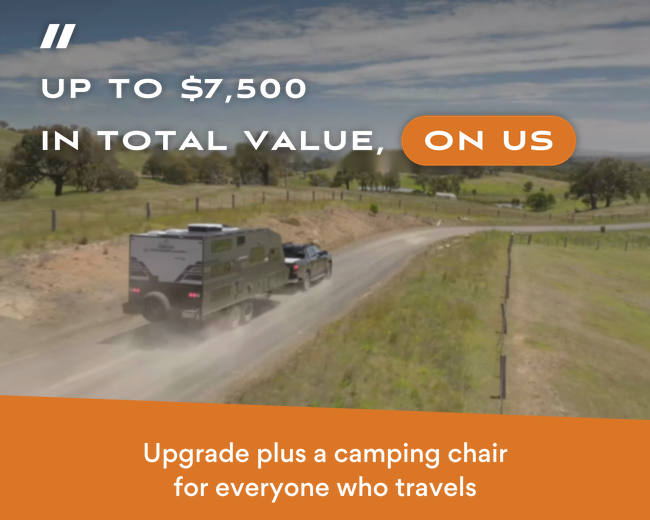
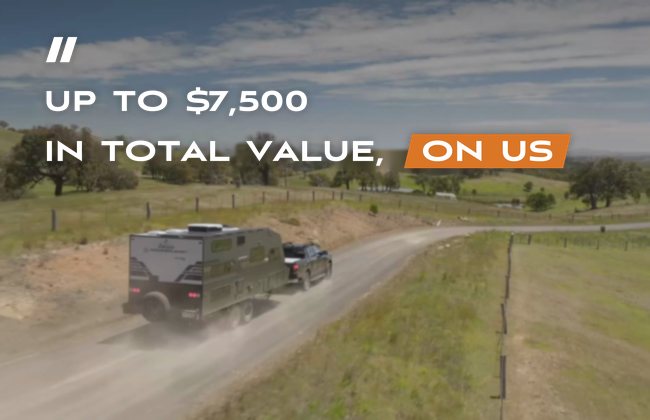
Offer email: header rebuilt to the design project's approved offer hero, Aviano band, Build Your Caravan section removed, final copy (Piyush 23 Nov 2026)

diff --git a/offer-email/offer-email.html b/offer-email/offer-email.html
@@ -5,7 +5,7 @@
 <meta name="viewport" content="width=device-width, initial-scale=1">
 <meta name="color-scheme" content="light only">
 <meta name="supported-color-schemes" content="light only">
-<title>Up to $6,000 in upgrades, on us</title>
+<title>Up to $7,500 in total value, on us</title>
 <!--[if mso]><xml><o:OfficeDocumentSettings><o:AllowPNG/><o:PixelsPerInch>96</o:PixelsPerInch></o:OfficeDocumentSettings></xml><![endif]-->
 <style type="text/css">
 a[x-apple-data-detectors]{color:inherit!important;text-decoration:none!important;font-size:inherit!important;font-family:inherit!important;font-weight:inherit!important;line-height:inherit!important}
@@ -33,33 +33,32 @@ img{border:0;display:block;outline:none;text-decoration:none;-ms-interpolation-m
 
 <body style="margin:0;padding:0;background:#FAFAFA;">
 <!-- DRAFT COPY: replace from COPY.md -->
-<div style="display:none;font-size:1px;line-height:1px;max-height:0;max-width:0;opacity:0;overflow:hidden;mso-hide:all;font-family:arial,'helvetica neue',helvetica,sans-serif;color:#FAFAFA;">Up to $7,500 in total value on a new Amaroo or Solara, ordered by 3&zwnj;0&nbsp;Nov&zwnj;ember. 5 build slots left. T&amp;Cs&nbsp;apply.&zwnj;&nbsp;&zwnj;&nbsp;&zwnj;&nbsp;&zwnj;&nbsp;&zwnj;&nbsp;&zwnj;&nbsp;&zwnj;&nbsp;&zwnj;&nbsp;&zwnj;&nbsp;&zwnj;&nbsp;&zwnj;&nbsp;&zwnj;&nbsp;&zwnj;&nbsp;&zwnj;&nbsp;&zwnj;&nbsp;&zwnj;&nbsp;&zwnj;&nbsp;&zwnj;&nbsp;&zwnj;&nbsp;&zwnj;&nbsp;&zwnj;&nbsp;&zwnj;&nbsp;&zwnj;&nbsp;&zwnj;&nbsp;&zwnj;&nbsp;&zwnj;&nbsp;&zwnj;&nbsp;&zwnj;&nbsp;&zwnj;&nbsp;&zwnj;&nbsp;&zwnj;&nbsp;&zwnj;&nbsp;&zwnj;&nbsp;&zwnj;&nbsp;&zwnj;&nbsp;&zwnj;&nbsp;&zwnj;&nbsp;&zwnj;&nbsp;&zwnj;&nbsp;&zwnj;&nbsp;&zwnj;&nbsp;&zwnj;&nbsp;&zwnj;&nbsp;&zwnj;&nbsp;&zwnj;&nbsp;&zwnj;&nbsp;&zwnj;&nbsp;&zwnj;&nbsp;&zwnj;&nbsp;&zwnj;&nbsp;&zwnj;&nbsp;&zwnj;&nbsp;&zwnj;&nbsp;&zwnj;&nbsp;&zwnj;&nbsp;&zwnj;&nbsp;&zwnj;&nbsp;&zwnj;&nbsp;&zwnj;&nbsp;&zwnj;&nbsp;&zwnj;&nbsp;&zwnj;&nbsp;&zwnj;&nbsp;&zwnj;&nbsp;&zwnj;&nbsp;&zwnj;&nbsp;&zwnj;&nbsp;&zwnj;&nbsp;&zwnj;&nbsp;&zwnj;&nbsp;&zwnj;&nbsp;&zwnj;&nbsp;&zwnj;&nbsp;&zwnj;&nbsp;&zwnj;&nbsp;&zwnj;&nbsp;&zwnj;&nbsp;&zwnj;&nbsp;&zwnj;&nbsp;&zwnj;&nbsp;&zwnj;&nbsp;&zwnj;&nbsp;&zwnj;&nbsp;&zwnj;&nbsp;&zwnj;&nbsp;&zwnj;&nbsp;&zwnj;&nbsp;&zwnj;&nbsp;&zwnj;&nbsp;&zwnj;&nbsp;</div>
+<div style="display:none;font-size:1px;line-height:1px;max-height:0;max-width:0;opacity:0;overflow:hidden;mso-hide:all;font-family:arial,'helvetica neue',helvetica,sans-serif;color:#FAFAFA;">Up to $7,500 in total value, on us: a free upgrade and a camping chair for everyone who travels. 5 build slots left, orders by 3&zwnj;0&nbsp;Nov&zwnj;ember.&zwnj;&nbsp;&zwnj;&nbsp;&zwnj;&nbsp;&zwnj;&nbsp;&zwnj;&nbsp;&zwnj;&nbsp;&zwnj;&nbsp;&zwnj;&nbsp;&zwnj;&nbsp;&zwnj;&nbsp;&zwnj;&nbsp;&zwnj;&nbsp;&zwnj;&nbsp;&zwnj;&nbsp;&zwnj;&nbsp;&zwnj;&nbsp;&zwnj;&nbsp;&zwnj;&nbsp;&zwnj;&nbsp;&zwnj;&nbsp;&zwnj;&nbsp;&zwnj;&nbsp;&zwnj;&nbsp;&zwnj;&nbsp;&zwnj;&nbsp;&zwnj;&nbsp;&zwnj;&nbsp;&zwnj;&nbsp;&zwnj;&nbsp;&zwnj;&nbsp;&zwnj;&nbsp;&zwnj;&nbsp;&zwnj;&nbsp;&zwnj;&nbsp;&zwnj;&nbsp;&zwnj;&nbsp;&zwnj;&nbsp;&zwnj;&nbsp;&zwnj;&nbsp;&zwnj;&nbsp;&zwnj;&nbsp;&zwnj;&nbsp;&zwnj;&nbsp;&zwnj;&nbsp;&zwnj;&nbsp;&zwnj;&nbsp;&zwnj;&nbsp;&zwnj;&nbsp;&zwnj;&nbsp;&zwnj;&nbsp;&zwnj;&nbsp;&zwnj;&nbsp;&zwnj;&nbsp;&zwnj;&nbsp;&zwnj;&nbsp;&zwnj;&nbsp;&zwnj;&nbsp;&zwnj;&nbsp;&zwnj;&nbsp;&zwnj;&nbsp;&zwnj;&nbsp;&zwnj;&nbsp;&zwnj;&nbsp;&zwnj;&nbsp;&zwnj;&nbsp;&zwnj;&nbsp;&zwnj;&nbsp;&zwnj;&nbsp;&zwnj;&nbsp;&zwnj;&nbsp;&zwnj;&nbsp;&zwnj;&nbsp;&zwnj;&nbsp;&zwnj;&nbsp;&zwnj;&nbsp;&zwnj;&nbsp;&zwnj;&nbsp;&zwnj;&nbsp;&zwnj;&nbsp;&zwnj;&nbsp;&zwnj;&nbsp;&zwnj;&nbsp;&zwnj;&nbsp;&zwnj;&nbsp;&zwnj;&nbsp;&zwnj;&nbsp;&zwnj;&nbsp;&zwnj;&nbsp;&zwnj;&nbsp;&zwnj;&nbsp;</div>
 <table width="100%" cellpadding="0" cellspacing="0" border="0" role="presentation" bgcolor="#FAFAFA" style="border-collapse:collapse;background:#FAFAFA;"><tbody><tr><td class="outer" align="center" style="padding:0 8px 0 8px;">
 <table class="wrap" width="650" cellpadding="0" cellspacing="0" border="0" role="presentation" bgcolor="#ffffff" style="width:650px;border-collapse:collapse;background:#ffffff;">
 
   <tr><td bgcolor="#ffffff" style="font-size:0;line-height:0;background:#ffffff;"><a href="https://wonderlandrv.com.au/" target="_blank"><img class="stackimg" src="img/header-logo-white.png" alt="Wonderland RV" width="650" height="90" style="width:650px;height:90px;display:block;font-family:arial,'helvetica neue',helvetica,sans-serif;font-size:16px;line-height:24px;color:#333333;"></a></td></tr>
 
 <!-- DRAFT COPY: replace from COPY.md -->
-  <tr><td style="font-size:0;line-height:0;"><a href="https://wonderlandrv.com.au/range/?utm_source=ActiveCampaign&amp;utm_medium=email&amp;utm_campaign=early-summer-upgrades&amp;utm_content=promo-final-hero" target="_blank"><img class="stackimg" src="hero-upto7500.gif" alt="Up to $7,500 in total value, on us. Upgrade plus a camping chair for everyone who travels. A Wonderland RV Amaroo and Solara on the road" width="650" height="520" style="width:650px;height:520px;display:block;font-family:arial,'helvetica neue',helvetica,sans-serif;font-size:16px;line-height:24px;color:#333333;"></a></td></tr>
+  <tr><td style="font-size:0;line-height:0;"><a href="https://wonderlandrv.com.au/range/?utm_source=ActiveCampaign&amp;utm_medium=email&amp;utm_campaign=early-summer-upgrades&amp;utm_content=promo-final-hero" target="_blank"><img class="stackimg" src="hero-upto7500.gif" alt="Up to $7,500 in total value, on us. A Wonderland RV Amaroo and Solara on the road" width="650" height="420" style="width:650px;height:420px;display:block;font-family:arial,'helvetica neue',helvetica,sans-serif;font-size:16px;line-height:24px;color:#333333;"></a></td></tr>
+  <tr><td bgcolor="#DB7627" style="background:#DB7627;font-size:0;line-height:0;padding:0;"><img class="stackimg" src="img/band-5-slots.png" alt="5 build slots left, offer ends 30 November. Amaroo and Solara, early summer offer" width="650" height="92" style="width:650px;height:92px;display:block;font-family:arial,'helvetica neue',helvetica,sans-serif;font-size:15px;line-height:22px;font-weight:bold;color:#ffffff;text-align:center;"></td></tr>
 
 <!-- DRAFT COPY: replace from COPY.md -->
-  <tr><td align="center" bgcolor="#DB7627" style="background:#DB7627;padding:14px 30px 6px 30px;"><table cellpadding="0" cellspacing="0" border="0" role="presentation" bgcolor="#ffffff" style="border-collapse:collapse;background:#ffffff;"><tbody><tr><td align="center" bgcolor="#ffffff" style="padding:12px 26px;background:#ffffff;font-family:arial,'helvetica neue',helvetica,sans-serif;font-size:14px;line-height:18px;mso-line-height-rule:exactly;color:#202223;">AMAROO AND SOLARA, EARLY&nbsp;SUMMER&nbsp;OFFER</td></tr></tbody></table></td></tr>
-  <tr><td align="center" bgcolor="#DB7627" style="background:#DB7627;padding:14px 30px 20px 30px;font-family:arial,'helvetica neue',helvetica,sans-serif;"><div style="font-size:24px;line-height:30px;mso-line-height-rule:exactly;font-weight:bold;color:#ffffff;letter-spacing:0.5px;">5 BUILD SLOTS LEFT</div><div style="font-size:24px;line-height:30px;mso-line-height-rule:exactly;font-weight:bold;color:#ffffff;letter-spacing:0.5px;">OFFER ENDS <span style="white-space:nowrap;">3&zwnj;0 NOV&zwnj;EMBER</span></div></td></tr>
 
   <tr><td bgcolor="#ffffff" style="font-size:0;line-height:0;background:#ffffff;"><img class="stackimg" src="img/wedge-orange-white.png" alt="" width="650" height="63" style="width:650px;height:63px;display:block;"></td></tr>
-  <tr><td class="pad" align="center" bgcolor="#ffffff" style="background:#ffffff;padding:26px 40px 0 40px;font-family:arial,'helvetica neue',helvetica,sans-serif;"><div class="sechead" style="font-size:26px;line-height:31px;mso-line-height-rule:exactly;font-weight:bold;color:#DB7627;">OUR EARLY SUMMER OFFER IS&nbsp;ON</div></td></tr>
-  <tr><td class="pad" align="center" bgcolor="#ffffff" style="background:#ffffff;padding:16px 40px 0px 40px;font-family:arial,'helvetica neue',helvetica,sans-serif;font-size:16px;line-height:24px;mso-line-height-rule:exactly;color:#333333;"><table width="520" cellpadding="0" cellspacing="0" border="0" role="presentation" align="center" class="fluid" style="width:520px;border-collapse:collapse;"><tbody><tr><td align="center" style="font-family:arial,'helvetica neue',helvetica,sans-serif;font-size:16px;line-height:24px;mso-line-height-rule:exactly;color:#333333;">If the Amaroo or the Solara has been on your shortlist, now&rsquo;s the time to make it yours. Spring into a new Wonderland RV Amaroo or Solara during the month of November and SAVE UP TO&nbsp;$6,000*.</td></tr></tbody></table></td></tr>
-  <tr><td class="pad" align="center" bgcolor="#ffffff" style="background:#ffffff;padding:14px 40px 0px 40px;font-family:arial,'helvetica neue',helvetica,sans-serif;font-size:16px;line-height:24px;mso-line-height-rule:exactly;color:#333333;"><table width="520" cellpadding="0" cellspacing="0" border="0" role="presentation" align="center" class="fluid" style="width:520px;border-collapse:collapse;"><tbody><tr><td align="center" style="font-family:arial,'helvetica neue',helvetica,sans-serif;font-size:16px;line-height:24px;mso-line-height-rule:exactly;color:#333333;">You&rsquo;ll also get a Wonderland RV camping chair for everyone who travels: 2 for a couples van, 5 for a three-bunk and 6 for&nbsp;a&nbsp;four-bunk.</td></tr></tbody></table></td></tr>
+  <tr><td class="pad" align="center" bgcolor="#ffffff" style="background:#ffffff;padding:26px 40px 0 40px;font-family:arial,'helvetica neue',helvetica,sans-serif;"><div class="sechead" style="font-size:26px;line-height:31px;mso-line-height-rule:exactly;font-weight:bold;color:#DB7627;">OUR EARLY SUMMER OFFER IS STILL&nbsp;ON</div></td></tr>
+  <tr><td class="pad" align="center" bgcolor="#ffffff" style="background:#ffffff;padding:16px 40px 0px 40px;font-family:arial,'helvetica neue',helvetica,sans-serif;font-size:16px;line-height:24px;mso-line-height-rule:exactly;color:#333333;"><table width="520" cellpadding="0" cellspacing="0" border="0" role="presentation" align="center" class="fluid" style="width:520px;border-collapse:collapse;"><tbody><tr><td align="center" style="font-family:arial,'helvetica neue',helvetica,sans-serif;font-size:16px;line-height:24px;mso-line-height-rule:exactly;color:#333333;">If the Amaroo or the Solara has been on your shortlist, there&rsquo;s still time to make it yours. Order a new Wonderland RV Amaroo or Solara by 30&nbsp;November and we&rsquo;ll fit an upgrade valued at up to $6,000*, plus give you a Wonderland RV camping chair for everyone who&nbsp;travels.</td></tr></tbody></table></td></tr>
+  <tr><td class="pad" align="center" bgcolor="#ffffff" style="background:#ffffff;padding:14px 40px 0px 40px;font-family:arial,'helvetica neue',helvetica,sans-serif;font-size:16px;line-height:24px;mso-line-height-rule:exactly;color:#333333;"><table width="520" cellpadding="0" cellspacing="0" border="0" role="presentation" align="center" class="fluid" style="width:520px;border-collapse:collapse;"><tbody><tr><td align="center" style="font-family:arial,'helvetica neue',helvetica,sans-serif;font-size:16px;line-height:24px;mso-line-height-rule:exactly;color:#333333;">That&rsquo;s up to $7,500 in total value, on us, and there are 5 build slots left across both&nbsp;models.</td></tr></tbody></table></td></tr>
   <tr><td bgcolor="#ffffff" style="background:#ffffff;padding:26px 0 0 0;font-size:0;line-height:0;"><img class="stackimg" src="img/chairs-offer.gif" alt="Free Wonderland RV camping chairs for everyone who travels, with a new Amaroo or Solara" width="650" height="325" style="width:650px;height:325px;display:block;font-family:arial,'helvetica neue',helvetica,sans-serif;font-size:16px;line-height:24px;color:#333333;"></td></tr>
 <!-- DRAFT COPY: replace from COPY.md -->
-  <tr><td class="pad" align="center" bgcolor="#ffffff" style="background:#ffffff;padding:18px 40px 0px 40px;font-family:arial,'helvetica neue',helvetica,sans-serif;font-size:16px;line-height:24px;mso-line-height-rule:exactly;color:#333333;"><table width="520" cellpadding="0" cellspacing="0" border="0" role="presentation" align="center" class="fluid" style="width:520px;border-collapse:collapse;"><tbody><tr><td align="center" style="font-family:arial,'helvetica neue',helvetica,sans-serif;font-size:16px;line-height:24px;mso-line-height-rule:exactly;color:#333333;">Camping chairs valued at $250 each: 2 for a couples van, 5 for a three&#8209;bunk, 6 for a four&#8209;bunk. For a family of six, that&rsquo;s up to $7,500 in total value with&nbsp;the&nbsp;upgrade.</td></tr></tbody></table></td></tr>
+  <tr><td class="pad" align="center" bgcolor="#ffffff" style="background:#ffffff;padding:18px 40px 0px 40px;font-family:arial,'helvetica neue',helvetica,sans-serif;font-size:16px;line-height:24px;mso-line-height-rule:exactly;color:#333333;"><table width="520" cellpadding="0" cellspacing="0" border="0" role="presentation" align="center" class="fluid" style="width:520px;border-collapse:collapse;"><tbody><tr><td align="center" style="font-family:arial,'helvetica neue',helvetica,sans-serif;font-size:16px;line-height:24px;mso-line-height-rule:exactly;color:#333333;">Camping chairs are valued at $250 each. With the upgrade, that&rsquo;s $6,500 in total value for a couples van with 2 chairs, $7,250 for a three&#8209;bunk with 5 and up to $7,500 for a four&#8209;bunk with&nbsp;6.</td></tr></tbody></table></td></tr>
   <tr><td class="pad" align="center" bgcolor="#ffffff" style="background:#ffffff;padding:34px 40px 0 40px;font-family:arial,'helvetica neue',helvetica,sans-serif;"><div class="sechead" style="font-size:26px;line-height:31px;mso-line-height-rule:exactly;font-weight:bold;color:#DB7627;">FEATURED UPGRADES</div></td></tr>
   <tr><td class="pad" bgcolor="#ffffff" style="background:#ffffff;padding:18px 40px 0 40px;"><table width="570" cellpadding="0" cellspacing="0" border="0" role="presentation" class="fluid" style="width:570px;border-collapse:collapse;"><tbody><tr><td height="1" bgcolor="#E5E5E5" style="height:1px;font-size:0;line-height:0;background:#E5E5E5;">&nbsp;</td></tr><tr><td class="cpad" bgcolor="#ffffff" style="background:#ffffff;padding:18px 10px 0 10px;"><table width="550" cellpadding="0" cellspacing="0" border="0" role="presentation" class="fluid" style="width:550px;border-collapse:collapse;"><tbody><tr><td width="110" valign="top" style="width:110px;padding:0 0 10px 0;font-family:arial,'helvetica neue',helvetica,sans-serif;font-size:16px;line-height:24px;mso-line-height-rule:exactly;font-weight:bold;color:#000000;border-bottom:1px solid #E5E5E5;">Amaroo:</td><td valign="top" style="padding:0 0 10px 0;font-family:arial,'helvetica neue',helvetica,sans-serif;font-size:16px;line-height:24px;mso-line-height-rule:exactly;color:#333333;border-bottom:1px solid #E5E5E5;">Free airbag suspension upgrade, valued at up to&nbsp;$6,000*</td></tr><tr><td width="110" valign="top" style="width:110px;padding:0 0 10px 0;font-family:arial,'helvetica neue',helvetica,sans-serif;font-size:16px;line-height:24px;mso-line-height-rule:exactly;font-weight:bold;color:#000000;border-bottom:1px solid #E5E5E5;">Solara:</td><td valign="top" style="padding:0 0 10px 0;font-family:arial,'helvetica neue',helvetica,sans-serif;font-size:16px;line-height:24px;mso-line-height-rule:exactly;color:#333333;border-bottom:1px solid #E5E5E5;">Your choice of disc brakes or the BCS system, valued at up to&nbsp;$6,000*</td></tr><!-- DRAFT COPY: replace from COPY.md --><tr><td width="110" valign="top" style="width:110px;padding:0 0 10px 0;font-family:arial,'helvetica neue',helvetica,sans-serif;font-size:16px;line-height:24px;mso-line-height-rule:exactly;font-weight:bold;color:#000000;border-bottom:1px solid #E5E5E5;">Build slots:</td><td valign="top" style="padding:0 0 10px 0;font-family:arial,'helvetica neue',helvetica,sans-serif;font-size:16px;line-height:24px;mso-line-height-rule:exactly;color:#333333;border-bottom:1px solid #E5E5E5;">5 remaining across&nbsp;both&nbsp;models</td></tr><tr><td width="110" valign="top" style="width:110px;padding:0 0 0 0;font-family:arial,'helvetica neue',helvetica,sans-serif;font-size:16px;line-height:24px;mso-line-height-rule:exactly;font-weight:bold;color:#000000;">Orders:</td><td valign="top" style="padding:0 0 0 0;font-family:arial,'helvetica neue',helvetica,sans-serif;font-size:16px;line-height:24px;mso-line-height-rule:exactly;color:#333333;">By 3&zwnj;0 Nov&zwnj;ember&nbsp;20&zwnj;26</td></tr></tbody></table></td></tr><tr><td height="1" bgcolor="#E5E5E5" style="height:1px;font-size:0;line-height:0;background:#E5E5E5;">&nbsp;</td></tr></tbody></table></td></tr>
   <tr><td class="pad" align="center" bgcolor="#ffffff" style="background:#ffffff;padding:22px 40px 0px 40px;font-size:0;line-height:0;"><a href="https://wonderlandrv.com.au/range/amaroo/?utm_source=ActiveCampaign&amp;utm_medium=email&amp;utm_campaign=early-summer-upgrades&amp;utm_content=promo-final-amaroo" target="_blank"><img src="img/btn-claim-the-amaroo-upgrade.png" alt="CLAIM THE AMAROO UPGRADE" width="350" height="52" style="width:350px;height:52px;display:block;margin:0 auto;font-family:arial,'helvetica neue',helvetica,sans-serif;font-size:13px;line-height:52px;font-weight:bold;letter-spacing:2px;color:#ffffff;text-align:center;background-color:#DB7627;"></a></td></tr>
   <tr><td class="pad" align="center" bgcolor="#ffffff" style="background:#ffffff;padding:12px 40px 0px 40px;font-size:0;line-height:0;"><a href="https://wonderlandrv.com.au/range/solara/?utm_source=ActiveCampaign&amp;utm_medium=email&amp;utm_campaign=early-summer-upgrades&amp;utm_content=promo-final-solara" target="_blank"><img src="img/btn-claim-the-solara-upgrade.png" alt="CLAIM THE SOLARA UPGRADE" width="350" height="52" style="width:350px;height:52px;display:block;margin:0 auto;font-family:arial,'helvetica neue',helvetica,sans-serif;font-size:13px;line-height:52px;font-weight:bold;letter-spacing:2px;color:#ffffff;text-align:center;background-color:#DB7627;"></a></td></tr>
   <tr><td class="pad" align="center" bgcolor="#ffffff" style="background:#ffffff;padding:18px 40px 0 40px;font-family:arial,'helvetica neue',helvetica,sans-serif;font-size:14px;line-height:21px;mso-line-height-rule:exactly;color:#555555;text-align:center;">Click a button to claim your offer and the team will be notified and give&nbsp;you&nbsp;a&nbsp;call.</td></tr>
 <!-- DRAFT COPY: replace from COPY.md -->
-  <tr><td class="pad" align="center" bgcolor="#ffffff" style="background:#ffffff;padding:16px 40px 34px 40px;font-family:arial,'helvetica neue',helvetica,sans-serif;font-size:12px;line-height:18px;mso-line-height-rule:exactly;color:#777777;text-align:center;"><strong>Offer expires 3&zwnj;0th Nov&zwnj;ember 20&zwnj;26, or until the last 5 build slots are taken, whichever comes&nbsp;first.</strong> Not to be used in conjunction with any other offer.&nbsp;T&amp;Cs&nbsp;apply.</td></tr>
+  <tr><td class="pad" align="center" bgcolor="#ffffff" style="background:#ffffff;padding:16px 40px 34px 40px;font-family:arial,'helvetica neue',helvetica,sans-serif;font-size:12px;line-height:18px;mso-line-height-rule:exactly;color:#777777;text-align:center;"><strong>Offer expires 3&zwnj;0th Nov&zwnj;ember 20&zwnj;26, or when the last 5 build slots are taken, whichever comes&nbsp;first.</strong> Not to be used in conjunction with any other offer.&nbsp;T&amp;Cs&nbsp;apply.</td></tr>
 
   <tr><td class="pad" align="center" bgcolor="#ffffff" style="background:#ffffff;padding:34px 40px 0 40px;font-family:arial,'helvetica neue',helvetica,sans-serif;"><div class="sechead" style="font-size:26px;line-height:31px;mso-line-height-rule:exactly;font-weight:bold;color:#DB7627;">AMAROO</div></td></tr>
   <tr><td class="pad" align="center" bgcolor="#ffffff" style="background:#ffffff;padding:22px 40px 0 40px;font-size:0;line-height:0;"><a href="https://wonderlandrv.com.au/range/amaroo/?utm_source=ActiveCampaign&amp;utm_medium=email&amp;utm_campaign=early-summer-upgrades&amp;utm_content=promo-final" target="_blank"><img class="stackimg" src="https://wonderlandrv.com.au/wp-content/uploads/2026/10/es26-edm-amaroo-airbags-clip.gif" alt="Cruisemaster airbag suspension under an Amaroo" width="550" height="300" style="width:550px;height:300px;display:block;margin:0 auto;font-family:arial,'helvetica neue',helvetica,sans-serif;font-size:16px;line-height:24px;color:#333333;"></a></td></tr>
@@ -74,10 +73,7 @@ img{border:0;display:block;outline:none;text-decoration:none;-ms-interpolation-m
   <tr><td class="pad" align="center" bgcolor="#ffffff" style="background:#ffffff;padding:10px 40px 0px 40px;font-family:arial,'helvetica neue',helvetica,sans-serif;font-size:16px;line-height:24px;mso-line-height-rule:exactly;color:#333333;"><table width="520" cellpadding="0" cellspacing="0" border="0" role="presentation" align="center" class="fluid" style="width:520px;border-collapse:collapse;"><tbody><tr><td align="center" style="font-family:arial,'helvetica neue',helvetica,sans-serif;font-size:16px;line-height:24px;mso-line-height-rule:exactly;color:#333333;"><strong style="color:#000000">Valued at up to&nbsp;$6,000*.</strong></td></tr></tbody></table></td></tr>
   <tr><td class="pad" align="center" bgcolor="#ffffff" style="background:#ffffff;padding:22px 40px 0px 40px;font-size:0;line-height:0;"><a href="https://wonderlandrv.com.au/range/solara/?utm_source=ActiveCampaign&amp;utm_medium=email&amp;utm_campaign=early-summer-upgrades&amp;utm_content=promo-final-solara-2" target="_blank"><img src="img/btn-claim-the-solara-upgrade.png" alt="CLAIM THE SOLARA UPGRADE" width="350" height="52" style="width:350px;height:52px;display:block;margin:0 auto;font-family:arial,'helvetica neue',helvetica,sans-serif;font-size:13px;line-height:52px;font-weight:bold;letter-spacing:2px;color:#ffffff;text-align:center;background-color:#DB7627;"></a></td></tr>
 
-  <tr><td style="font-size:0;line-height:0;padding:34px 0 0 0;background:#ffffff;" bgcolor="#ffffff"><a href="https://wonderlandrv.com.au/build-your-caravan?utm_source=ActiveCampaign&utm_medium=email&utm_campaign=early-summer-upgrades&utm_content=promo-final" target="_blank"><img class="stackimg" src="https://wonderlandrv.com.au/wp-content/uploads/2026/10/es26-edm-banner-byc-reference.png" alt="Design, customise, hit the road. Build your dream caravan" width="650" height="311" style="width:650px;height:311px;display:block;font-family:arial,'helvetica neue',helvetica,sans-serif;font-size:16px;line-height:24px;color:#333333;"></a></td></tr>
-  <tr><td class="pad" align="center" bgcolor="#ffffff" style="background:#ffffff;padding:26px 40px 0px 40px;font-family:arial,'helvetica neue',helvetica,sans-serif;font-size:16px;line-height:24px;mso-line-height-rule:exactly;color:#333333;"><table width="520" cellpadding="0" cellspacing="0" border="0" role="presentation" align="center" class="fluid" style="width:520px;border-collapse:collapse;"><tbody><tr><td align="center" style="font-family:arial,'helvetica neue',helvetica,sans-serif;font-size:16px;line-height:24px;mso-line-height-rule:exactly;color:#333333;">Not sure which layout suits you yet? Build Your Caravan takes six steps, and we email you a quote at&nbsp;the&nbsp;end.</td></tr></tbody></table></td></tr>
-  <tr><td class="pad" align="center" bgcolor="#ffffff" style="background:#ffffff;padding:22px 40px 34px 40px;font-size:0;line-height:0;"><a href="https://wonderlandrv.com.au/build-your-caravan?utm_source=ActiveCampaign&amp;utm_medium=email&amp;utm_campaign=early-summer-upgrades&amp;utm_content=promo-final" target="_blank"><img src="img/btn-check-it-out.png" alt="CHECK IT OUT" width="260" height="52" style="width:260px;height:52px;display:block;margin:0 auto;font-family:arial,'helvetica neue',helvetica,sans-serif;font-size:13px;line-height:52px;font-weight:bold;letter-spacing:2px;color:#ffffff;text-align:center;background-color:#DB7627;"></a></td></tr>
-  <tr><td class="pad" align="center" bgcolor="#ffffff" style="background:#ffffff;padding:0 40px 34px 40px;font-family:arial,'helvetica neue',helvetica,sans-serif;font-size:12px;line-height:18px;mso-line-height-rule:exactly;color:#777777;text-align:center;"><strong>*T&amp;Cs apply.</strong></td></tr>
+  <tr><td class="pad" align="center" bgcolor="#ffffff" style="background:#ffffff;padding:34px 40px 34px 40px;font-family:arial,'helvetica neue',helvetica,sans-serif;font-size:12px;line-height:18px;mso-line-height-rule:exactly;color:#777777;text-align:center;"><strong>*T&amp;Cs apply.</strong></td></tr>
   <tr><td class="pad" align="center" bgcolor="#ffffff" style="background:#ffffff;padding:12px 40px 0 40px;font-family:arial,'helvetica neue',helvetica,sans-serif;"><div class="sechead" style="font-size:26px;line-height:31px;mso-line-height-rule:exactly;font-weight:bold;color:#DB7627;">FIND YOUR NEAREST&nbsp;DEALER</div></td></tr>
   <tr><td class="pad" align="center" bgcolor="#ffffff" style="background:#ffffff;padding:16px 40px 0px 40px;font-family:arial,'helvetica neue',helvetica,sans-serif;font-size:16px;line-height:24px;mso-line-height-rule:exactly;color:#333333;"><table width="520" cellpadding="0" cellspacing="0" border="0" role="presentation" align="center" class="fluid" style="width:520px;border-collapse:collapse;"><tbody><tr><td align="center" style="font-family:arial,'helvetica neue',helvetica,sans-serif;font-size:16px;line-height:24px;mso-line-height-rule:exactly;color:#333333;">Our dealers can walk you through a Wonderland RV in person and help you with&nbsp;your&nbsp;order.</td></tr></tbody></table></td></tr>
   <tr><td class="pad" align="center" bgcolor="#ffffff" style="background:#ffffff;padding:22px 40px 0px 40px;font-size:0;line-height:0;"><a href="https://wonderlandrv.com.au/dealers/?utm_source=ActiveCampaign&amp;utm_medium=email&amp;utm_campaign=early-summer-upgrades&amp;utm_content=promo-final" target="_blank"><img src="img/btn-find-a-dealer.png" alt="FIND A DEALER" width="260" height="52" style="width:260px;height:52px;display:block;margin:0 auto;font-family:arial,'helvetica neue',helvetica,sans-serif;font-size:13px;line-height:52px;font-weight:bold;letter-spacing:2px;color:#ffffff;text-align:center;background-color:#DB7627;"></a></td></tr>
